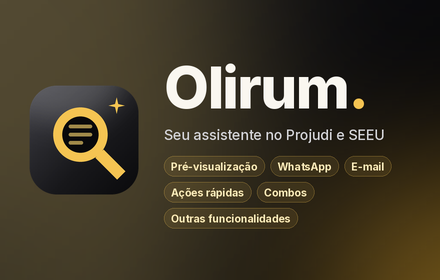
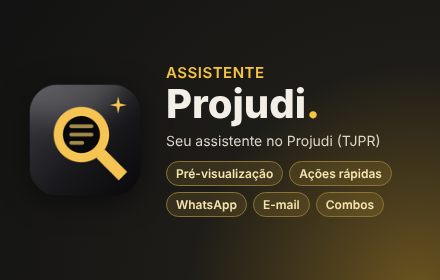
Edição Chrome Web Store: imagem de divulgação Assistente Projudi
Troca a imagem 440x280 da loja (antes "Olirum" e "Projudi e SEEU")
pela do Assistente Projudi e lista as imagens da loja na ficha.

Claude-Session: https://claude.ai/code/session_01Lmmn18hCuPAX4YmC28pcEP

diff --git a/extensao-preview-documentos/store/LOJA-CHROME.md b/extensao-preview-documentos/store/LOJA-CHROME.md
@@ -59,6 +59,15 @@ claro que é uma ajuda para usar o Projudi, e não o sistema oficial (a loja
 recusa nomes que pareçam oficiais), e "Ações Rápidas e Pré-visualização"
 cobre as buscas mais comuns de quem procura essas funções.
 
+## Imagens da loja
+
+- **Ícone (128×128):** `icons/icon128.png` (vai no pacote).
+- **Imagem de divulgação pequena (440×280):** `store/promo-pequeno-440x280.png`
+  — "Assistente Projudi.", "Seu assistente no Projudi (TJPR)" e as etiquetas
+  das funções. Enviada à parte, na ficha da loja (não vai no pacote).
+- **Capturas de tela (1280×800 ou 640×400, pelo menos uma):** feitas no
+  Projudi com dados fictícios ou tapados.
+
 ## Gerar o pacote (.zip) para enviar à loja
 
 Na raiz do repositório:
